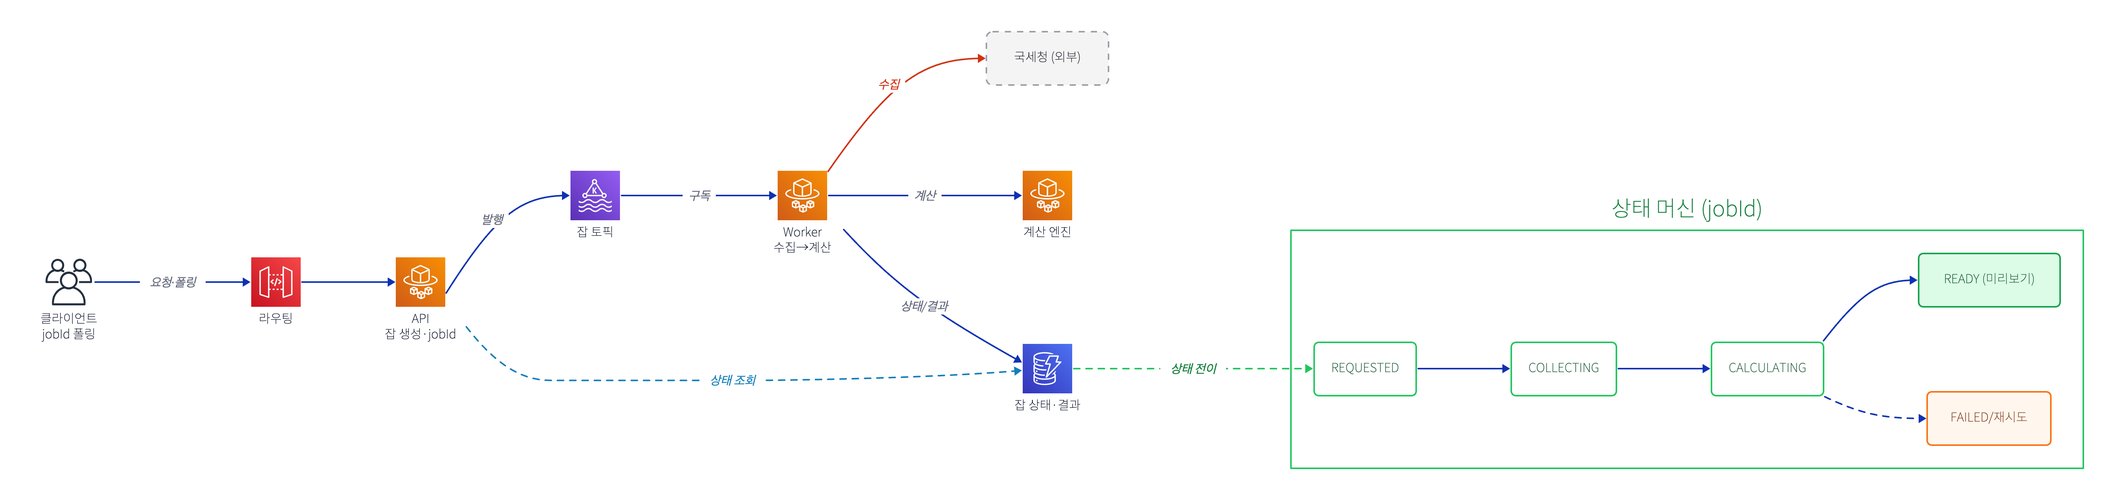
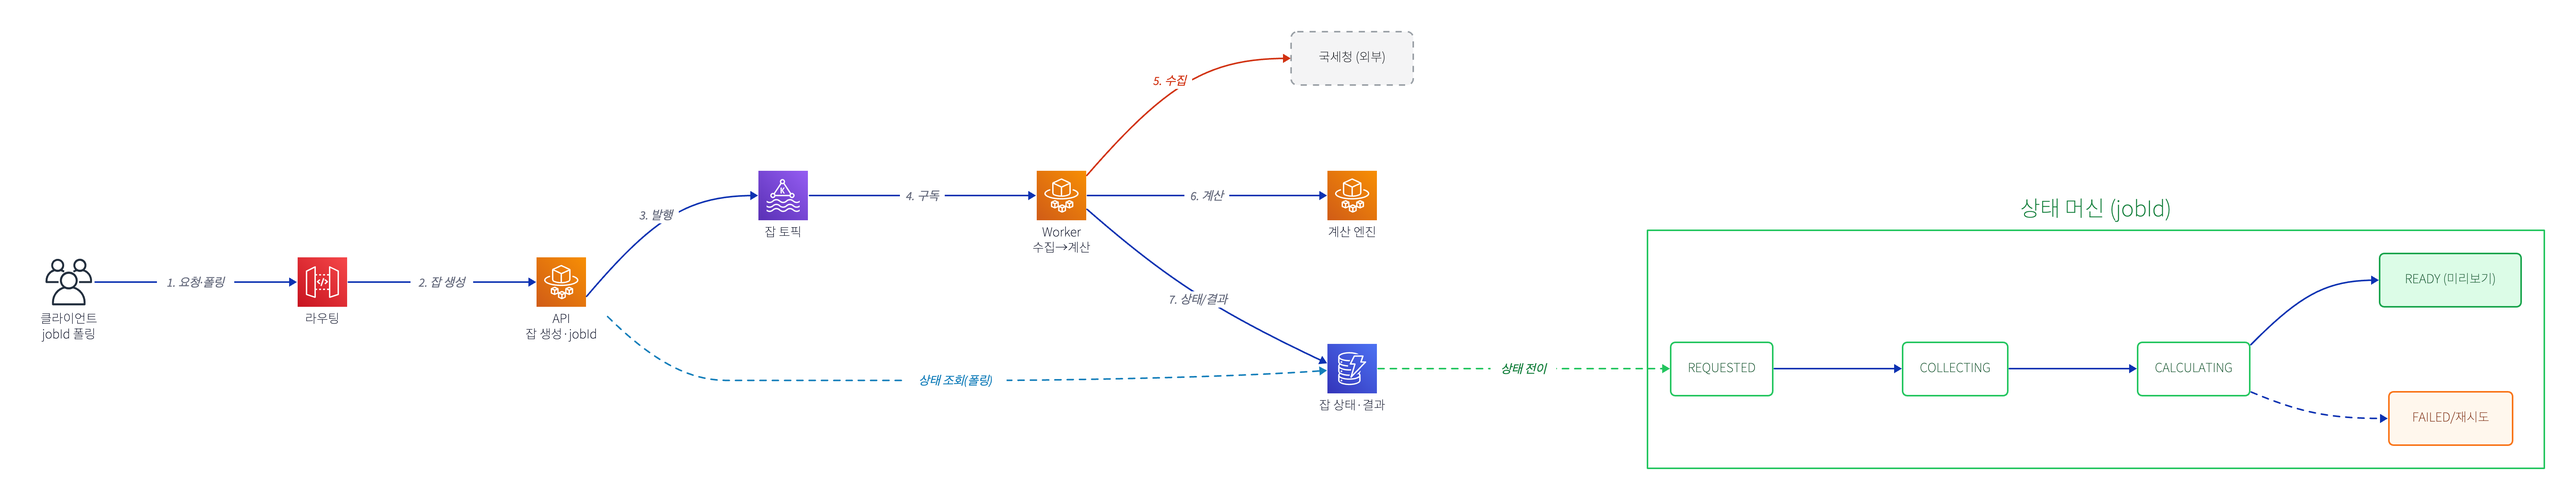
docs: 그림 내 범례 note 제거(레이아웃 오염 해결) + 엣지 흐름 번호 추가
- near 범례가 노드와 충돌해 다이어그램을 오른쪽으로 밀던 문제 해결: 범례를 그림에서 빼고 이미지 아래 1줄 캡션으로
- 4개 그림 엣지에 흐름 번호(1,2,3…) 부여 — 종소세 비동기 1→9 + 제출 사가 ①②③, L0 1→3, L1 1→7, MSA 요청 1→6

diff --git a/system-design/260611-종소세-환급-설계.md b/system-design/260611-종소세-환급-설계.md
@@ -35,6 +35,8 @@
 
 ![L0 화이트보드 — 동기 흐름의 문제점](./assets/L0-화이트보드.png)
 
+> 흐름 1→3 동기 체인 · 빨강 = 국세청(외부)
+
 가장 순진한 `앱 → API → 국세청 → 계산 → 응답` 동기 체인. **깨지는 지점:**
 
 1. 국세청 호출 수십 초~분 → HTTP 타임아웃 · 3분 동기 대기 불가 — *시나리오 1⃣*
@@ -49,6 +51,8 @@
 ## L1 — 비동기 잡 + 상태 관리
 
 ![L1 비동기 — 잡 큐 + 상태 머신](./assets/L1-비동기-상태관리.png)
+
+> 흐름 1→7 · 점선 = 폴링/상태 전이 · 빨강 = 국세청(외부)
 
 **L0 대비 추가**: API Gateway · Kafka(잡 토픽) · Worker · DynamoDB(상태 머신).
 
@@ -71,9 +75,11 @@
 - **쓰기 사가(3⃣4⃣)**: API Gateway→**Step Functions**(`검증 → 제출(멱등키) → 접수확인 폴링 → 완료기록`, 실패 시 보상). 같은 멱등키 → **한 번만 접수**, 타임아웃 시 **상태 재확인 후 판단**(성공 오판 금지).
 - **부가**: 완료 **알림 서비스**(FCM/APNs) · **S3**(원천·신고서) · 횡단(KMS/Secrets·룰셋 버저닝+계산 스냅샷·관측).
 
-> 읽기는 "견디기", 쓰기는 "정확히 한 번" — 이 비대칭이 설계의 뼈대. (범례·핵심 요약은 그림 안 note 참고)
+> 읽기는 "견디기", 쓰기는 "정확히 한 번" — 이 비대칭이 설계의 뼈대.
 
 ![★ L2 최종 — 종소세 환급/연말정산 서버 아키텍처](./assets/종소세-환급-아키텍처.png)
+
+> 비동기 미리보기 1→9 · 제출 사가 ①②③(보라) · 실선 = 동기, 점선 = 비동기/폴링/푸시, 빨강 = 국세청(외부)
 
 > 생성: [`assets/종소세-환급-아키텍처.d2`](./assets/종소세-환급-아키텍처.d2).
 

diff --git a/system-design/260616-스프링-마이크로서비스-레퍼런스.md b/system-design/260616-스프링-마이크로서비스-레퍼런스.md
@@ -1,8 +1,10 @@
 # 참고 — 스프링 클라우드 마이크로서비스 레퍼런스 아키텍처
 
-> 출처: 『스프링 마이크로서비스 코딩 공작소』 종합 예제. **D2 + simpleicons → PNG**. 생성: [`assets/스프링-마이크로서비스-레퍼런스.d2`](./assets/스프링-마이크로서비스-레퍼런스.d2). 멀티벤더라 simpleicons(플랫 단색 글리프)로 통일, Zipkin은 박스. 흐름·개념은 그림 안 범례·메모 참고.
+> 출처: 『스프링 마이크로서비스 코딩 공작소』 종합 예제. **D2 + simpleicons → PNG**. 생성: [`assets/스프링-마이크로서비스-레퍼런스.d2`](./assets/스프링-마이크로서비스-레퍼런스.d2). 멀티벤더라 simpleicons(플랫 단색 글리프)로 통일, Zipkin은 박스.
 
 ![스프링 클라우드 마이크로서비스 레퍼런스 아키텍처](./assets/스프링-마이크로서비스-레퍼런스.png)
+
+> 주요 요청 흐름 1→6 · 실선 = 동기, 점선 = 비동기/구성로드 · 빨강 = 캐시 · 초록 = 디스커버리/구성 · Resilience4j = CB·Retry·Bulkhead · 관측 3종 = 추적·로그·메트릭
 
 ## 구성 요소
 
